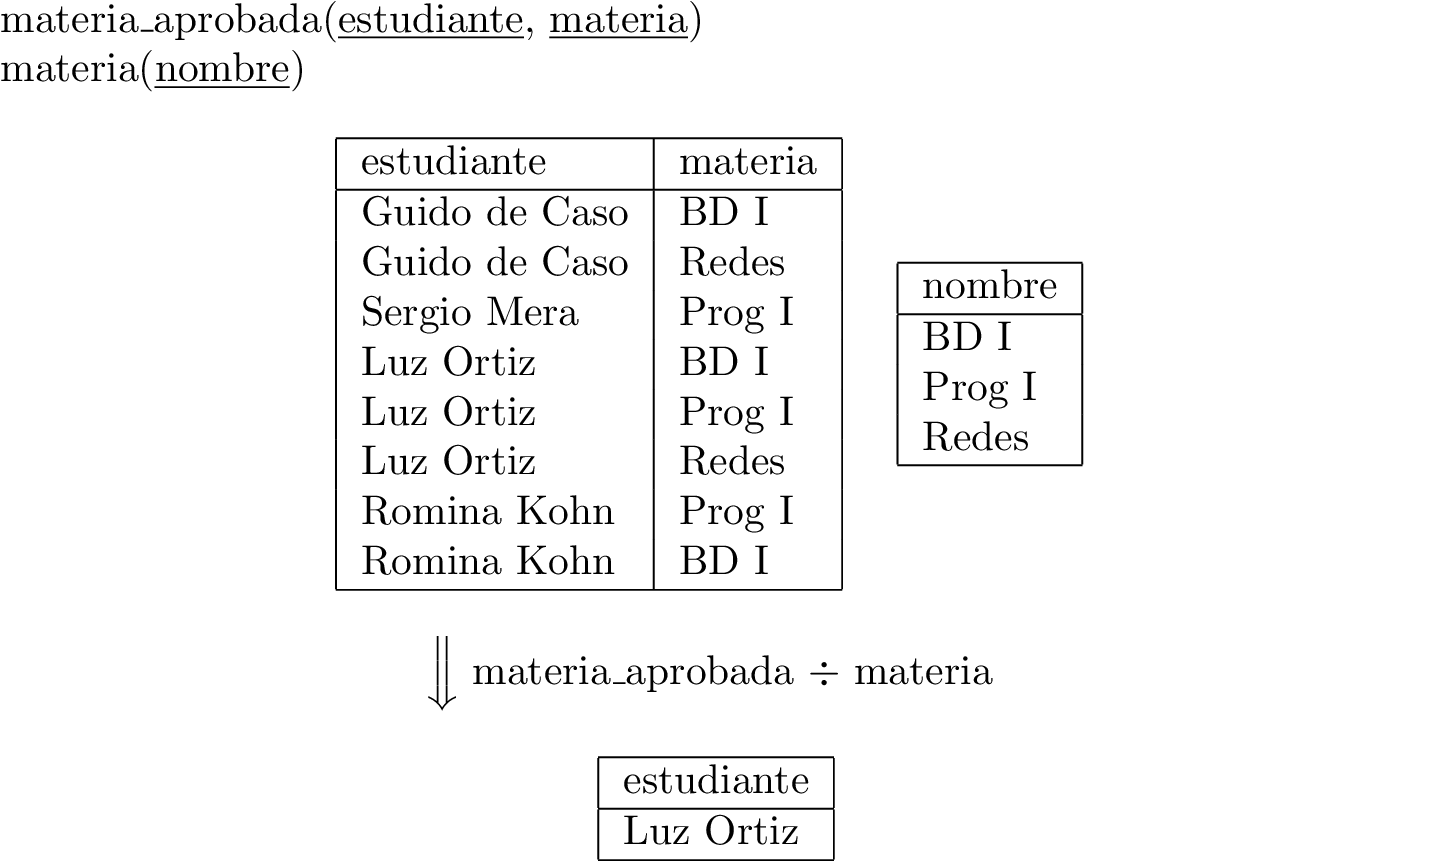
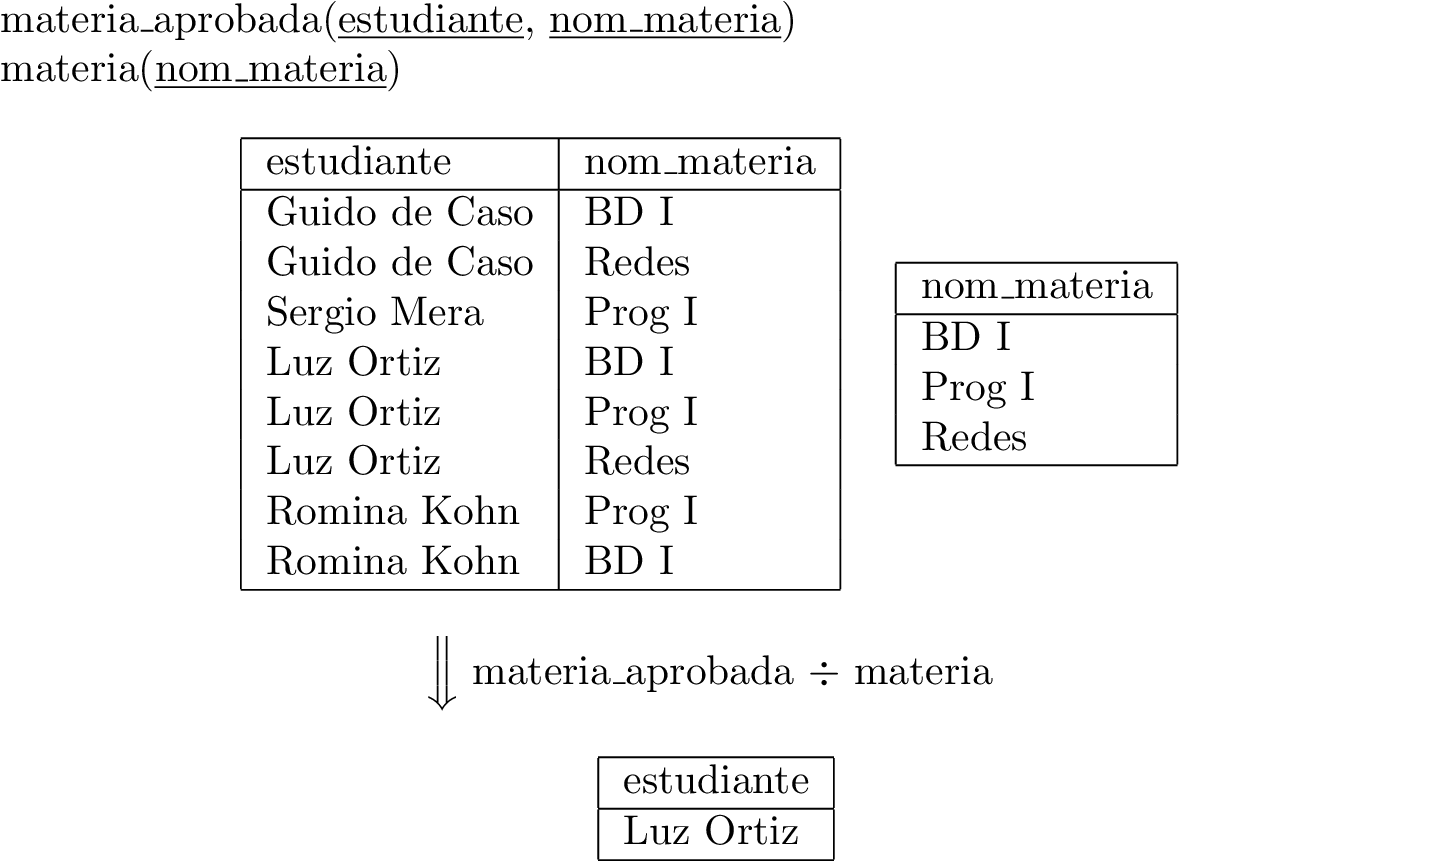
Add Boyce-Codd example; Fix ar tex

diff --git a/present/tex/fn-bcfn-ejemplo-2.tex b/present/tex/fn-bcfn-ejemplo-2.tex
@@ -1,0 +1,60 @@
+\pdfoutput=1
+\documentclass[preview]{standalone}
+\usepackage{xcolor}
+
+\begin{document}
+
+\textbf{Esquema:}\\
+empleade(\underline{nro\_legajo}, sector, nro\_emp, cargo)\\
+
+\textbf{Dependencias funcionales:}\\
+nro\_legajo $\rightarrow$ sector, nro\_emp, cargo\\
+sector, nro\_emp $\rightarrow$ nro\_legajo, cargo\\
+{\color{red}{cargo $\rightarrow$ sector}}\\
+
+\textbf{Instancia:}
+\begin{center}
+\scriptsize
+\begin{tabular}{| c | l | c | l |}\hline			
+	nro\_legajo & sector & nro\_emp & cargo  \\\hline			
+	23.456.789 & Sistemas & 1 & Analista Funcional \\
+	34.567.890 & Call Center & 1 & Llamador \\
+	45.678.901 & Sistemas & 2 & Programador \\
+	12.345.678 & Call Center & 2 & Supervisor \\
+	32.654.987 & Call Center & 3 & Llamador \\
+	43.765.098 & Sistemas & 3 & Programador \\\hline
+\end{tabular}
+
+
+
+$\Big\Downarrow$
+\end{center}
+
+\textbf{Esquema:}\\
+empleade(\underline{nro\_legajo}, nro\_emp, cargo)\\
+cargo(\underline{nombre}, sector)\\
+
+\textbf{Instancias:}
+\begin{center}
+\scriptsize
+\begin{tabular}{| c | c | l |}\hline			
+	nro\_legajo & nro\_emp & cargo  \\\hline			
+	23.456.789 & 1 & Analista Funcional \\
+	34.567.890 & 1 & Llamador \\
+	45.678.901 & 2 & Programador \\
+	12.345.678 & 2 & Supervisor \\
+	32.654.987 & 3 & Llamador \\
+	43.765.098 & 3 & Programador \\\hline
+\end{tabular}
+\quad
+\begin{tabular}{| l | l |}\hline
+	nombre & sector \\\hline
+	Programador & Sistemas\\
+	Analista Funcional & Sistemas\\
+	Lider Proyecto & Sistemas\\
+	Llamador & Call Center\\	
+	Supervisor & Call Center\\\hline		
+\end{tabular}
+\end{center}
+
+\end{document}

diff --git a/present/tex/fn-bcfn-ejemplo-1.tex b/present/tex/fn-bcfn-ejemplo-1.tex
@@ -1,0 +1,29 @@
+\pdfoutput=1
+\documentclass[preview]{standalone}
+\usepackage{xcolor}
+
+\begin{document}
+
+\textbf{Esquema:}\\
+empleade(\underline{nro\_legajo}, sector, nro\_emp, cargo)\\
+
+\textbf{Dependencias funcionales:}\\
+nro\_legajo $\rightarrow$ sector, nro\_emp, cargo\\
+sector, nro\_emp $\rightarrow$ nro\_legajo, cargo\\
+{\color{red}{cargo $\rightarrow$ sector}}\\
+
+\textbf{Instancia:}
+\begin{center}
+\scriptsize
+\begin{tabular}{| c | l | c | l |}\hline			
+	nro\_legajo & sector & nro\_emp & cargo  \\\hline			
+	23.456.789 & Sistemas & 1 & Analista Funcional \\
+	34.567.890 & Call Center & 1 & Llamador \\
+	45.678.901 & Sistemas & 2 & Programador \\
+	12.345.678 & Call Center & 2 & Supervisor \\
+	32.654.987 & Call Center & 3 & Llamador \\
+	43.765.098 & Sistemas & 3 & Programador \\\hline
+\end{tabular}
+\end{center}
+
+\end{document}

diff --git a/present/tex/ar-division-example.tex b/present/tex/ar-division-example.tex
@@ -3,12 +3,12 @@
 
 \begin{document}
 
-materia\_aprobada(\underline{estudiante}, \underline{materia})\\
-materia(\underline{nombre})
+materia\_aprobada(\underline{estudiante}, \underline{nom\_materia})\\
+materia(\underline{nom\_materia})
 
 \begin{center}
 \begin{tabular}{ | l | l |}\hline
-	estudiante & materia \\\hline			
+	estudiante & nom\_materia \\\hline			
 	Guido de Caso & BD I  \\
 	Guido de Caso & Redes  \\
 	Sergio Mera & Prog I  \\
@@ -20,7 +20,7 @@ materia(\underline{nombre})
 \end{tabular}
 \quad
 \begin{tabular}{| l |}\hline
-	nombre \\\hline			
+	nom\_materia \\\hline			
 	BD I \\
 	Prog I \\
 	Redes \\\hline

diff --git a/present/tex/ar-join-example.tex b/present/tex/ar-join-example.tex
@@ -21,7 +21,7 @@ cursada(\underline{nro\_legajo}, nom\_est, \underline{cod\_materia})\\
 \end{tabular}
 \vspace{.35cm}
 
-$\Big\Downarrow$ materia ${\Large\bowtie_{\textsubscript{(cod\_mat = cod\_materia)}}}$ \ estudiante 
+$\Big\Downarrow$ materia ${\Large\bowtie_{\textsubscript{(cod\_mat = cod\_materia)}}}$ \ cursada 
 \vspace{.35cm}
 
 \begin{tabular}{| l | c | l | l | l | l | }\hline			

diff --git a/present/tex/fn-sfn-problemas-3.tex b/present/tex/fn-sfn-problemas-3.tex
@@ -5,11 +5,11 @@
 
 \textbf{Esquema:}\\
 campeon\_grand\_slam(\underline{torneo}, \underline{a\~no}, tenista, nacionalidad)\\
-
+  
 \textbf{Dependencias funcionales:}\\
 torneo, a\~no $\rightarrow$ tenista\\
 tenista $\rightarrow$ nacionalidad\\
-
+  
 \textbf{Instancia:}
 \begin{center}
 \begin{tabular}{| l | c | l | l |}\hline			

diff --git a/present/tex/ar-natural-join-example.tex b/present/tex/ar-natural-join-example.tex
@@ -21,7 +21,7 @@ cursada(\underline{nro\_legajo}, nom\_est, \underline{\textbf{cod\_mat}})\\
 \end{tabular}
 \vspace{.35cm}
 
-$\Big\Downarrow$ materia ${\Large\bowtie}$ \ estudiante 
+$\Big\Downarrow$ materia ${\Large\bowtie}$ \ cursada 
 \vspace{.35cm}
 
 \begin{tabular}{| l | c | l | l | l | l }\hline			
